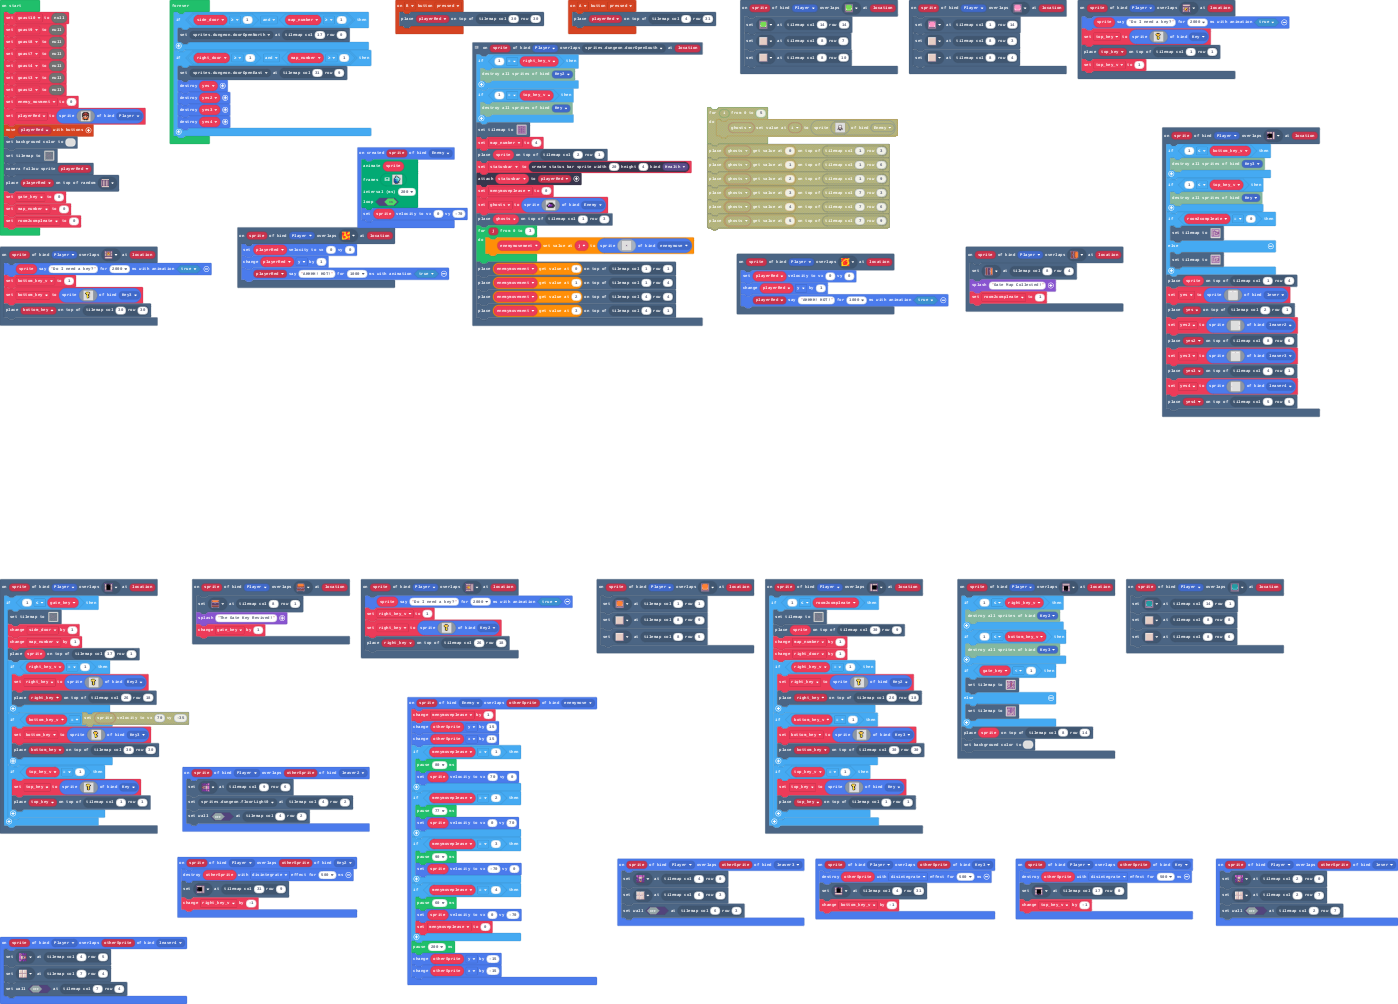
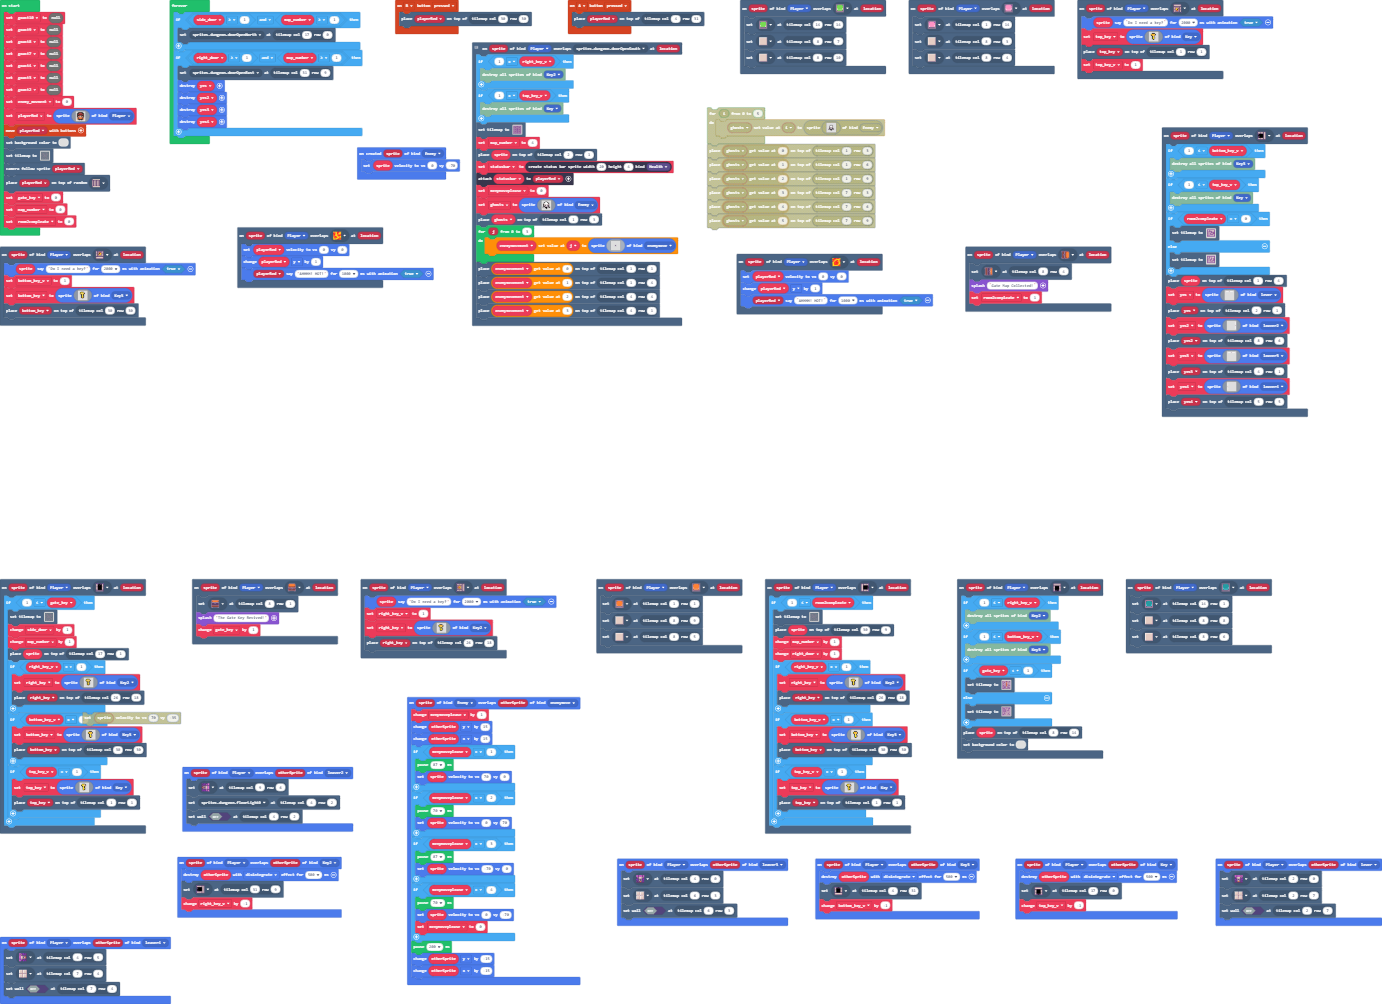
took out enemy animation and change sprite

diff --git a/main.ts b/main.ts
@@ -15,103 +15,6 @@ scene.onOverlapTile(SpriteKind.Player, assets.tile`myTile0`, function (sprite, l
     tiles.setTileAt(tiles.getTileLocation(8, 10), sprites.dungeon.floorLight2)
 })
 sprites.onCreated(SpriteKind.Enemy, function (sprite) {
-    animation.runImageAnimation(
-    sprite,
-    [img`
-        . . . f f . . . . . 
-        . . f 9 9 f . . . . 
-        . . f 9 9 9 f f . . 
-        . f 9 6 6 9 9 9 f . 
-        f 8 1 6 1 9 9 9 9 f 
-        f 8 8 8 6 6 9 9 9 f 
-        f 8 8 1 6 6 9 9 f . 
-        f 8 8 8 6 6 9 9 f . 
-        f 8 8 8 8 6 6 f . . 
-        f 8 8 8 8 8 6 6 f . 
-        . f 8 8 8 8 f f . . 
-        . . f f f f . . . . 
-        `,img`
-        . . . f f . . . . . 
-        . . f 9 9 f . . . . 
-        . . f 9 9 9 f f . . 
-        . f 9 6 6 9 9 9 f . 
-        f 8 1 6 1 9 9 9 9 f 
-        f 8 8 8 6 6 9 9 9 f 
-        f 8 8 1 6 6 9 9 f . 
-        f 8 8 8 6 6 9 9 f . 
-        . f 8 8 8 6 6 f . . 
-        . . f 8 8 8 6 f . . 
-        . . . f f 8 6 f . . 
-        . . . . f f f . . . 
-        `,img`
-        . . . f f . . . . . 
-        . . f 9 9 f . . . . 
-        . . f 9 9 9 f f . . 
-        . f 9 6 6 9 9 9 f . 
-        f 8 1 6 1 9 9 9 9 f 
-        f 8 8 8 6 6 9 9 9 f 
-        f 8 8 1 6 6 9 9 f . 
-        f 8 8 8 6 6 9 9 f . 
-        . f f 8 8 6 6 f . . 
-        . . . f f 6 6 f . . 
-        . . f 8 8 6 f f . . 
-        . . . f f f f . . . 
-        `,img`
-        . . . f f . . . . . 
-        . . f 9 9 f . . . . 
-        . . f 9 9 9 f f . . 
-        . f 9 6 6 9 9 9 f . 
-        f 8 1 6 1 9 9 9 9 f 
-        f 8 8 8 6 6 9 9 9 f 
-        f 8 8 1 6 6 9 9 f . 
-        f 8 8 8 6 6 9 9 f . 
-        . f f 8 8 6 f f . . 
-        . . f 8 8 f . . . . 
-        . . . f 8 8 f . . . 
-        . . . . f f . . . . 
-        `,img`
-        . . . f f . . . . . 
-        . . f 9 9 f . . . . 
-        . . f 9 9 9 f f . . 
-        . f 9 6 6 9 9 9 f . 
-        f 8 1 6 1 9 9 9 9 f 
-        f 8 8 8 6 6 9 9 9 f 
-        f 8 8 1 6 6 9 9 f . 
-        f 8 8 8 6 6 9 9 f . 
-        . f f 8 8 6 f f . . 
-        . . f 8 8 f . . . . 
-        . . f 8 8 f . . . . 
-        . . . f f . . . . . 
-        `,img`
-        . . . f f . . . . . 
-        . . f 9 9 f . . . . 
-        . . f 9 9 9 f f . . 
-        . f 9 6 6 9 9 9 f . 
-        f 8 1 6 1 9 9 9 9 f 
-        f 8 8 8 6 6 9 9 9 f 
-        f 8 8 1 6 6 9 9 f . 
-        f 8 8 8 6 6 9 9 f . 
-        . f 8 8 8 6 9 f . . 
-        . . f 8 8 6 f . . . 
-        . . . f 8 8 f . . . 
-        . . . . f f . . . . 
-        `,img`
-        . . . f f . . . . . 
-        . . f 9 9 f . . . . 
-        . . f 9 9 9 f f . . 
-        . f 9 6 6 9 9 9 f . 
-        f 8 1 6 1 9 9 9 9 f 
-        f 8 8 8 6 6 9 9 9 f 
-        f 8 8 1 6 6 9 9 f . 
-        f 8 8 8 6 6 9 9 f . 
-        . f 8 8 8 6 9 f . . 
-        . . f 8 8 6 9 f . . 
-        . . . f 8 8 9 9 f . 
-        . . . . f f f f . . 
-        `],
-    200,
-    true
-    )
     sprite.setVelocity(0, -70)
 })
 scene.onOverlapTile(SpriteKind.Player, sprites.dungeon.buttonPink, function (sprite, location) {
@@ -320,11 +223,22 @@ scene.onOverlapTile(SpriteKind.Player, sprites.dungeon.doorOpenSouth, function (
     statusbar.attachToSprite(playerRed)
     menymoveplease = 0
     ghosts = sprites.create(img`
-        . . f f f f . . 
-        . f 1 a c c f . 
-        f 1 a a a c c f 
-        f a a a a c c f 
-        . f f f f f f . 
+        . . . . . . . . . . . . . . . . 
+        . . . . . . f f f f . . . . . . 
+        . . . . f f 1 1 1 1 f f . . . . 
+        . . . f 1 1 1 1 1 1 1 1 f . . . 
+        . . . f 1 1 1 1 1 1 1 1 f . . . 
+        . . f d 1 1 1 1 1 1 1 1 d f . . 
+        . . f d d d 1 1 1 1 d d d f . . 
+        . . f b d b f d d f b d b f . . 
+        . . f c d c f 1 1 f c d c f . . 
+        . . . f b 1 1 1 1 1 1 b f . . . 
+        . . f f f c d b 1 b d f f f . . 
+        . f 1 1 1 c b f b f c 1 1 1 f . 
+        . f 1 b 1 1 f f f f 1 1 b 1 f . 
+        . f b f b f f f f f f b f b f . 
+        . . . . . . . f f f . . . . . . 
+        . . . . . . . . . . . . . . . . 
         `, SpriteKind.Enemy)
     tiles.placeOnTile(ghosts, tiles.getTileLocation(1, 3))
     for (let j = 0; j <= 3; j++) {
@@ -365,19 +279,19 @@ sprites.onOverlap(SpriteKind.Enemy, SpriteKind.enemymove, function (sprite, othe
     otherSprite.y += 15
     otherSprite.x += 15
     if (menymoveplease == 1) {
-        pause(80)
+        pause(87)
         sprite.setVelocity(70, 0)
     }
     if (menymoveplease == 2) {
-        pause(77)
+        pause(70)
         sprite.setVelocity(0, 70)
     }
     if (menymoveplease == 3) {
-        pause(90)
+        pause(87)
         sprite.setVelocity(-70, 0)
     }
     if (menymoveplease == 4) {
-        pause(60)
+        pause(70)
         sprite.setVelocity(0, -70)
         menymoveplease = 0
     }
